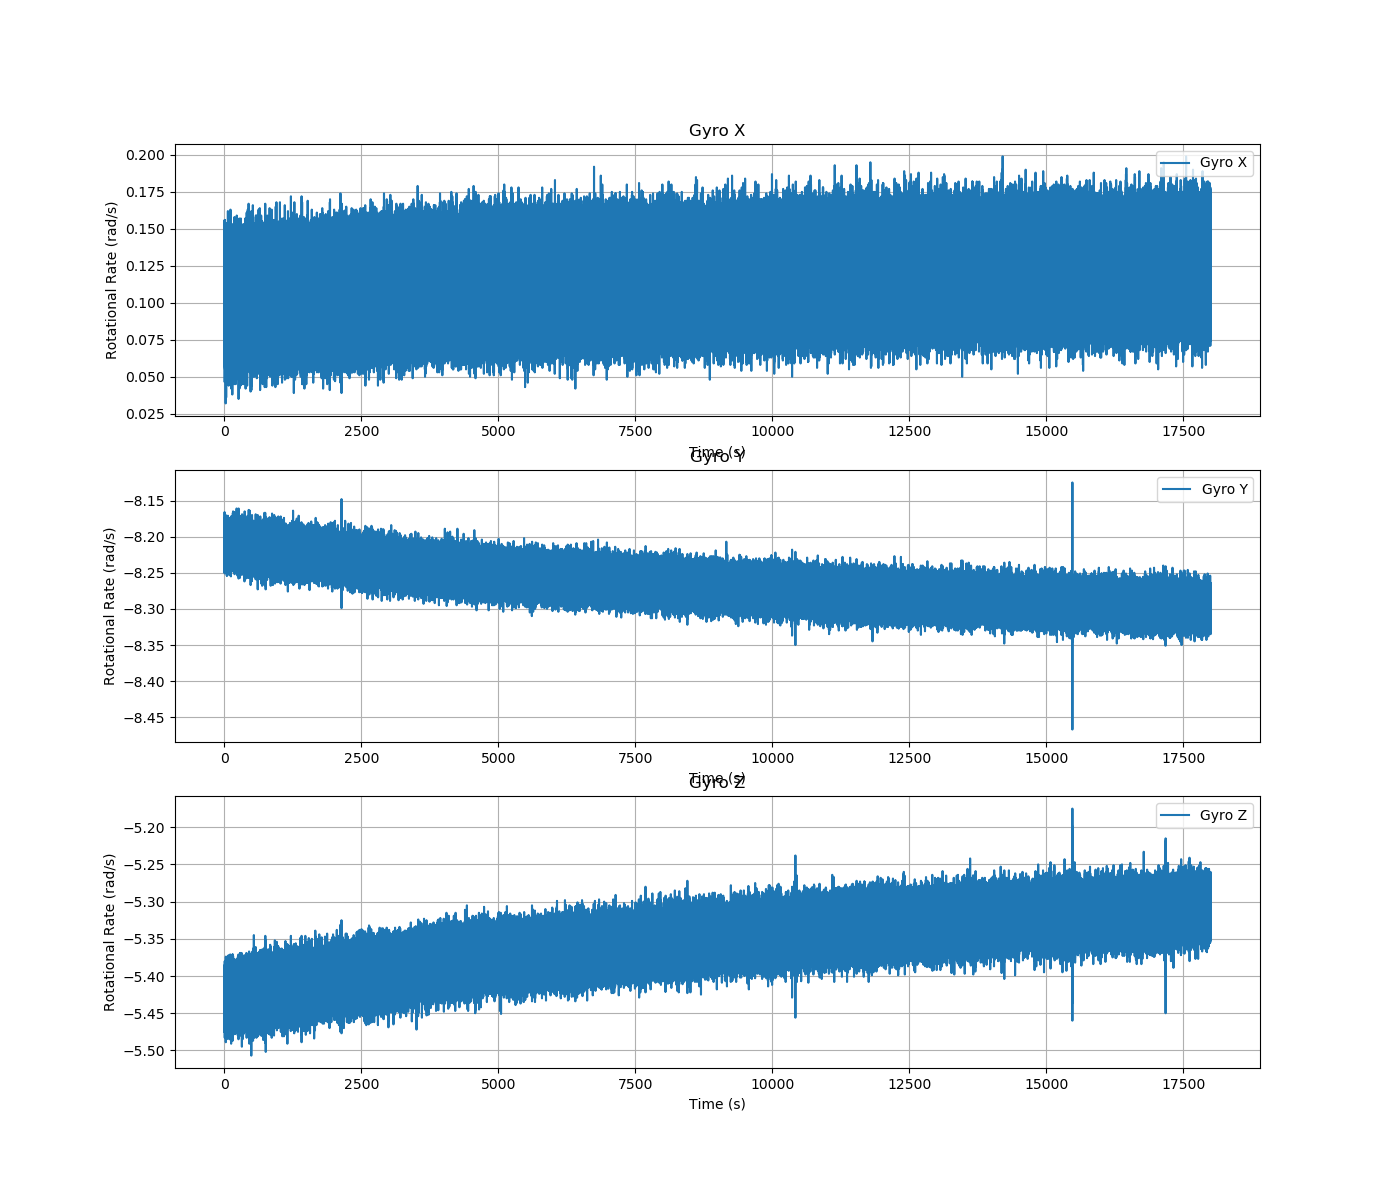
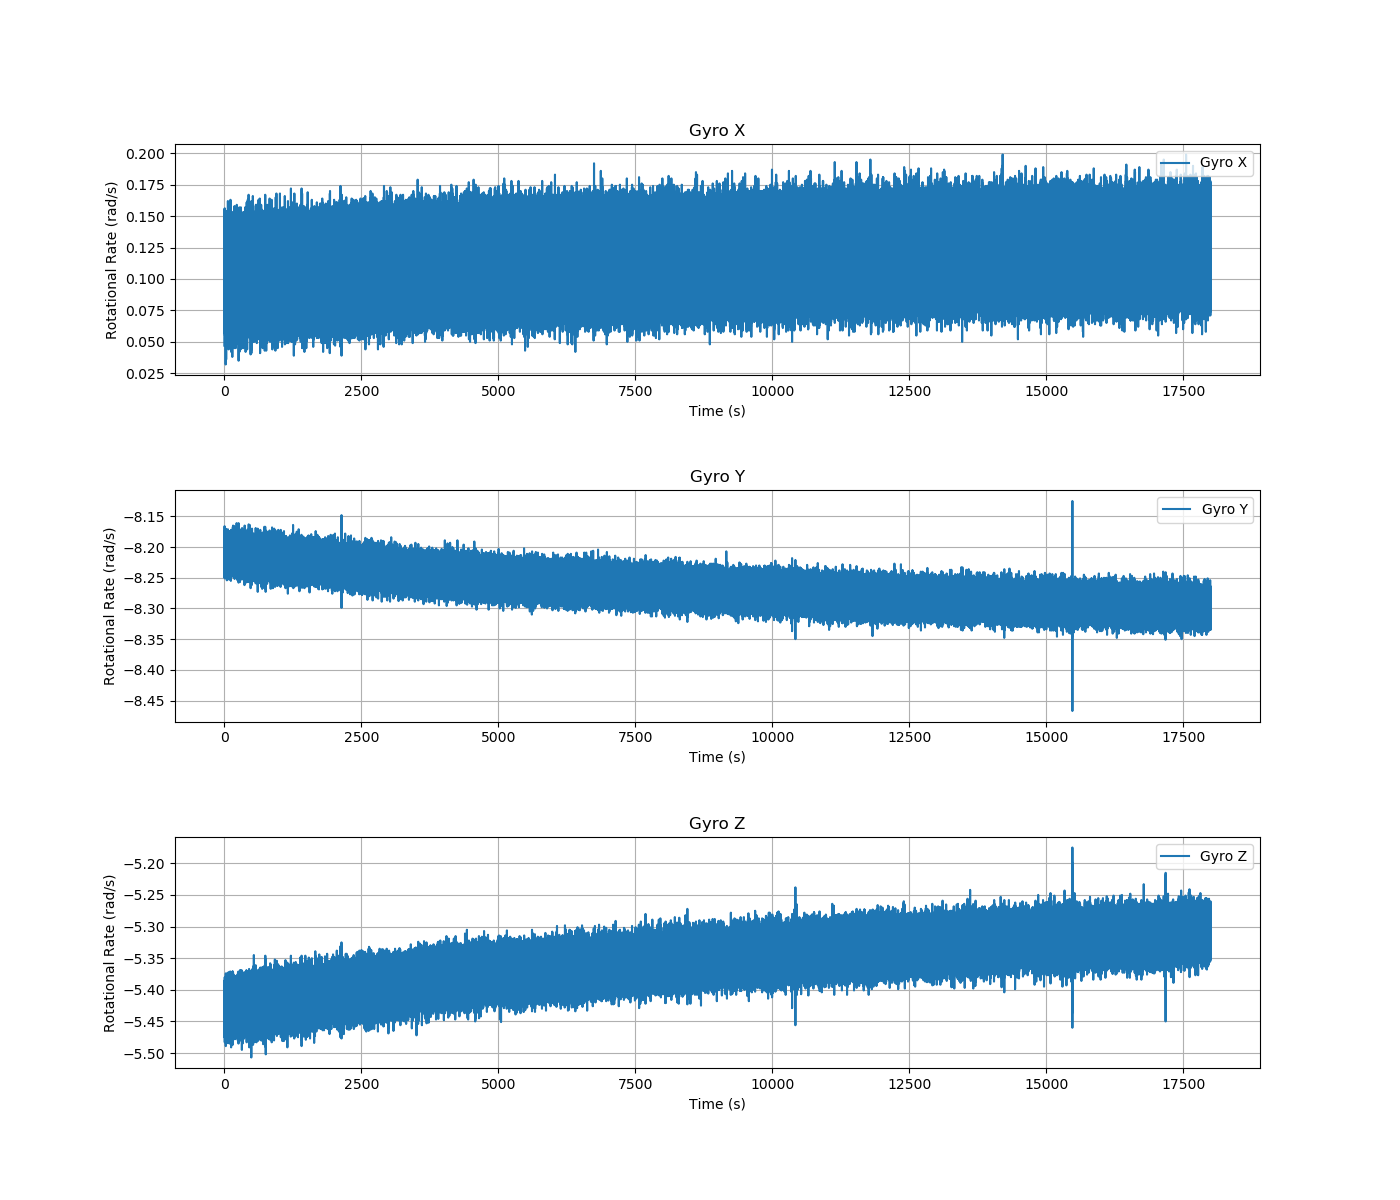
Fix plot allen deviation

diff --git a/imu/analysis/dataUtil.py b/imu/analysis/dataUtil.py
@@ -12,10 +12,10 @@ import matplotlib.pyplot as plt
 # 1) Scenario:
 LOCATION_C = "locationC"
 LIVE_CAPTURE = "live_capture"
-SCENARIO = LIVE_CAPTURE
+SCENARIO = LOCATION_C
 
 # 2) Convert to csv:
-CONVERT_ROSBAG_TO_CSV = True
+CONVERT_ROSBAG_TO_CSV = False
 
 # 3) Compute oadev again:
 COMPUTE_OADEV = False
@@ -104,7 +104,7 @@ def plot_allan_bias_instability(taus, adevs, axis):
     plt.loglog(taus, adevs, label='σ')
     plt.loglog(taus, lineB, '--', label='σ_B')
     plt.loglog(tauB, scfB*B, 'o', label='Bias Instability')
-    plt.text(tauB, scfB*B, f'τB={tauB:.2f}s', ha='right', va='bottom')
+    plt.text(tauB, scfB*B, f'0.664B', ha='right', va='bottom')
 
     plt.title('Allan Deviation with Bias Instability {axis}')
     plt.xlabel('τ (s)')
@@ -284,7 +284,8 @@ def plot_gyro(data):
         plt.legend(loc='upper right')
         plt.grid(True)
     
-    plot_path = os.path.join(PLOT_DIR, 'gyro.png')  # Specify your desired file name
+    plt.subplots_adjust(hspace=0.5)  # 'hspace' controls the height between subplots
+    plot_path = os.path.join(PLOT_DIR, 'gyro.png')  
     plt.savefig(plot_path)
 
 
